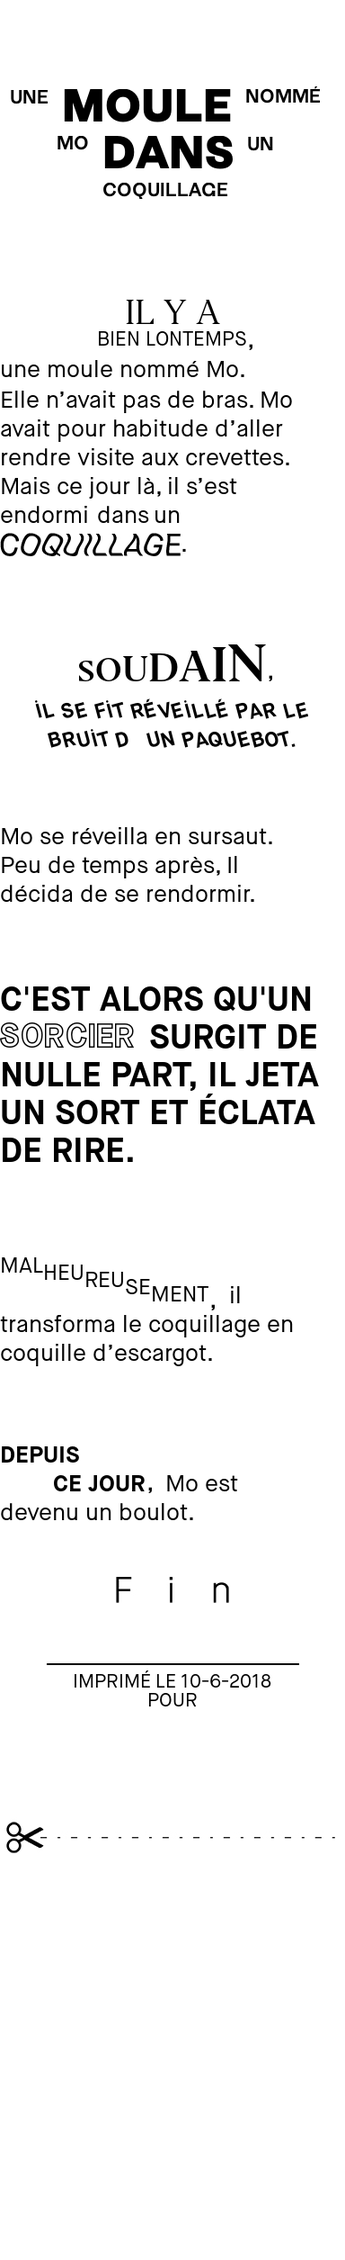
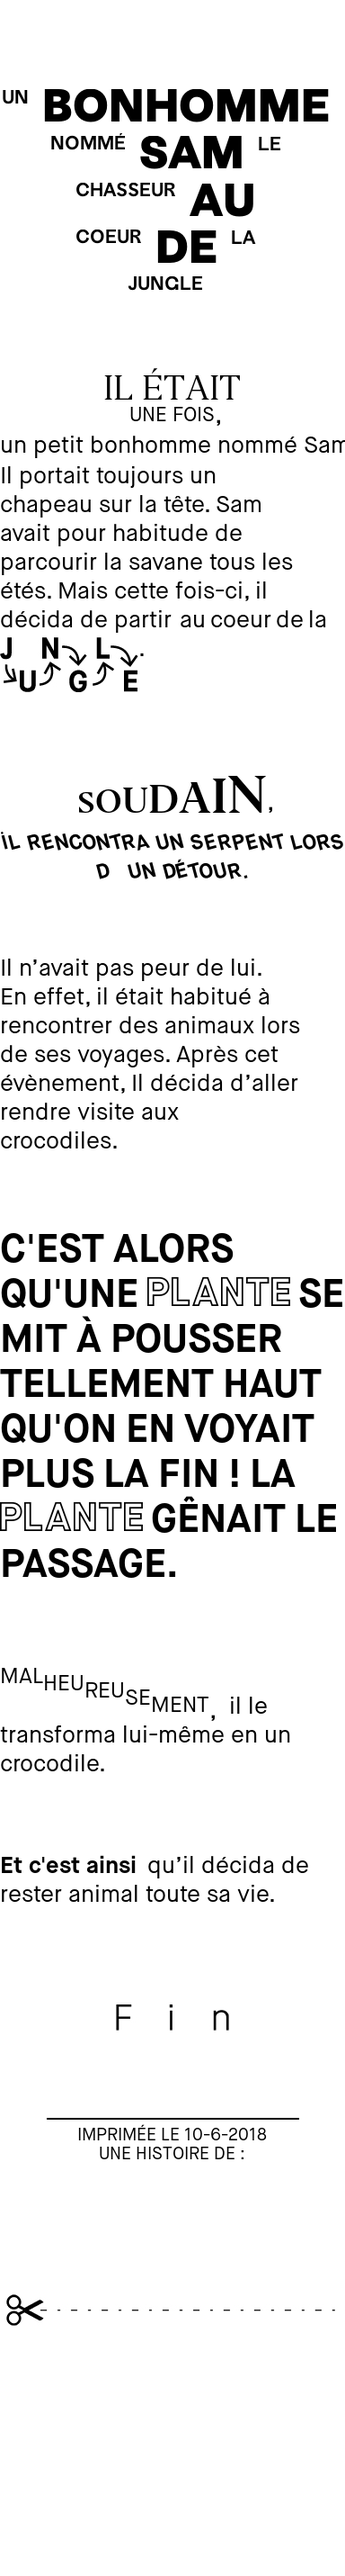
style(story) : correct details with Robin

diff --git a/effects.py b/effects.py
@@ -6,6 +6,7 @@ import textwrap
 import storydesign
 from random import randint
 import re
+import datetime
 
 # fonts
 editor_regular = 'assets/fonts/Editor/Editor-Regular.ttf'
@@ -95,9 +96,9 @@ def get_img_height(custom_words, title, story_parts, width, onceupon_effect, top
 		font_effects_height += height
                     
                 # get the images height for drawImage
-                if start_sentence == "Puis":
-                    img_height = add_image("assets/img/mountains.jpg", False)
-                    images_height += img_height
+##                if start_sentence == "Puis":
+##                    img_height = add_image("assets/img/mountains.jpg", False)
+##                    images_height += img_height
                     
             #rest of the sentence
             end_sentence = story_part[end + 1:len(story_part)].strip()
@@ -133,6 +134,8 @@ def get_img_height(custom_words, title, story_parts, width, onceupon_effect, top
     end_random = storydesign.StoryDesign.end_random
     img_end_height = add_image("assets/img/fin0"+ str(end_random) +".jpg", False)
     images_height += img_end_height
+    
+    images_height = 250 # end_height
     
     # cut
     img_cut_height = add_image("assets/img/cut.jpg", False)
@@ -710,8 +713,8 @@ def place_img_position(width, expression, spacing, font_size, text_color, top, l
     
 def imposed_event(width, expression, contour_word, top, font_bold, font_contour, font_size, after_part, spacing, text_color, context = False):
     
-    text_event_bold = ImageFont.truetype(font_bold, font_size + 12, encoding="unic")
-    text_event_contour = ImageFont.truetype(font_contour, font_size + 5, encoding="unic")
+    text_event_bold = ImageFont.truetype(font_bold, font_size + 18, encoding="unic")
+    text_event_contour = ImageFont.truetype(font_contour, font_size + 11, encoding="unic")
 		    
     words = expression.split(" ")
     top += after_part
@@ -735,8 +738,8 @@ def imposed_event(width, expression, contour_word, top, font_bold, font_contour,
                 if context : context.text((left, top), word, fill=text_color, font=text_event_bold) # draw text
             left += word_width + 10
         else:
-            top += spacing + 10
-            effect_height += spacing + 10
+            top += spacing + 18
+            effect_height += spacing + 18
             left = 0
             if word == contour_word.upper():
                 if context : context.text((left, top + 4), word, fill=text_color, font=text_event_contour) # draw text
@@ -749,6 +752,44 @@ def imposed_event(width, expression, contour_word, top, font_bold, font_contour,
     
     return effect_height
 
+
+def draw_end(width, top_end, font_size, text_color, spacing, img, context = False):
+    
+    effect_height = top_end
+    
+    # draw end line
+    top_end += 80
+    effect_height += 80
+    line_width = 280
+    line_center = (width - line_width) / 2
+    context.line((line_center , top_end,  line_center + line_width, top_end), "#000", 2) # line
+        
+    # written by
+    text_maison_neue_book_written = ImageFont.truetype(maison_neue_book, font_size - 12, encoding="unic")
+        
+    now = datetime.datetime.now()
+    date = "Imprimée le ".decode("utf-8").upper() + "%d" % now.day + "-%d" % now.month + "-%d" % now.year
+    top_end += 10
+    effect_height += 10
+    date_width, date_height = text_maison_neue_book_written.getsize(date) # get text width
+    date_left = (width - date_width) / 2
+    context.multiline_text((date_left,top_end), date, fill=text_color, font=text_maison_neue_book_written)
+        
+    top_end += 2 * spacing / 3
+    effect_height += 2 * spacing
+    sentence = "Une histoire de :".upper()
+    sentence_width, sentence_height = text_maison_neue_book_written.getsize(sentence) # get text width
+    sentence_left = (width - sentence_width) / 2
+    context.multiline_text((sentence_left,top_end), sentence, fill=text_color, font=text_maison_neue_book_written)
+    top_end += 120
+    effect_height += 120
+
+    # cut
+    img_cut_height = add_image("assets/img/cut.jpg", True, top_end, img)
+    
+    return effect_height
+    
+    
 def add_image(url, add, top = 0, img_bg = False, left = 0):
     custom_img = Image.open(url)
     if add == True : img_bg.paste(custom_img, (left, top))

diff --git a/webserver.py b/webserver.py
@@ -66,14 +66,14 @@ class Server(BaseHTTPRequestHandler):
 def run(server_class=HTTPServer, handler_class=Server):
     
         #local story design
-##        paper = storydesign.StoryDesign()
-##        filename = paper.filename
-##        fileformat = paper.fileformat
-##        
-##        title = "Un bonhomme nommé Sam le chasseur au coeur de la jungle"
-##        story = "Il était une fois, un petit bonhomme nommé Sam. Il portait toujours un chapeau sur la tête. Sam avait pour habitude de parcourir la savane tous les étés. Mais cette fois-ci, il décida de partir au coeur de la jungle.@Soudain, il rencontra un serpent lors d’un détour. Il n’avait pas peur de lui. En effet, il était habitué à rencontrer des animaux lors de ses voyages. Après cet évènement, Il décida d’aller rendre visite aux crocodiles. C'est alors qu'un sorcier surgit de nulle part, il jeta un sort et éclata de rire. @Malheureusement, il le transforma lui-même en un crocodile. @Et c'est ainsi qu’il décida de rester animal toute sa vie."
-##        paper.text_in_img(unicode(title, 'UTF8'), unicode(story, 'UTF8'))
-##        # os.system('lpr ' + filename + fileformat + '')
+        paper = storydesign.StoryDesign()
+        filename = paper.filename
+        fileformat = paper.fileformat
+        
+        title = "Un bonhomme nommé Sam le chasseur au coeur de la jungle"
+        story = "Il était une fois, un petit bonhomme nommé Sam. Il portait toujours un chapeau sur la tête. Sam avait pour habitude de parcourir la savane tous les étés. Mais cette fois-ci, il décida de partir au coeur de la jungle.@Soudain, il rencontra un serpent lors d’un détour. Il n’avait pas peur de lui. En effet, il était habitué à rencontrer des animaux lors de ses voyages. Après cet évènement, Il décida d’aller rendre visite aux crocodiles. C'est alors qu'une plante se mit à pousser tellement haut qu'on en voyait plus la fin ! La plante gênait le passage. @Malheureusement, il le transforma lui-même en un crocodile. @Et c'est ainsi qu’il décida de rester animal toute sa vie."
+        paper.text_in_img(unicode(title, 'UTF8'), unicode(story, 'UTF8'))
+        # os.system('lpr ' + filename + fileformat + '')
         
 	host = commands.getoutput('hostname -I') #raspberry IP : depending the network
 	port = 8080

diff --git a/storydesign.py b/storydesign.py
@@ -372,34 +372,11 @@ class StoryDesign():
             top += after_part
 
         # add end
+        top_end += 30
         img_end_height = effects.add_image("assets/img/fin0"+ str(self.end_random) +".jpg", True, top_end, img)
         top_end += img_end_height
         
-        # draw end line
-        top_end += 50
-        line_width = 280
-        line_center = (self.width - line_width) / 2
-        context.line((line_center , top_end,  line_center + line_width, top_end), "#000", 2) # line
-        
-        # written by
-        text_maison_neue_book_written = ImageFont.truetype(maison_neue_book, self.font_size - 5, encoding="unic")
-        
-        now = datetime.datetime.now()
-        date = "Imprimé le ".decode("utf-8").upper() + "%d" % now.day + "-%d" % now.month + "-%d" % now.year
-        top_end += 10
-        date_width, date_height = text_maison_neue_book_written.getsize(date) # get text width
-        date_left = (self.width - date_width) / 2
-        context.multiline_text((date_left,top_end), date, fill=self.text_color, font=text_maison_neue_book_written)
-        
-        top_end += 2 * spacing / 3
-        sentence = "Pour".upper()
-        sentence_width, sentence_height = text_maison_neue_book_written.getsize(sentence) # get text width
-        sentence_left = (self.width - sentence_width) / 2
-        context.multiline_text((sentence_left,top_end), sentence, fill=self.text_color, font=text_maison_neue_book_written)
-        top_end += 100
-
-        # cut
-        img_cut_height = effects.add_image("assets/img/cut.jpg", True, top_end, img)
+        height = effects.draw_end(self.width, top_end, font_size, self.text_color, spacing, img, context)
 
         
         del context # destroy drawing context
